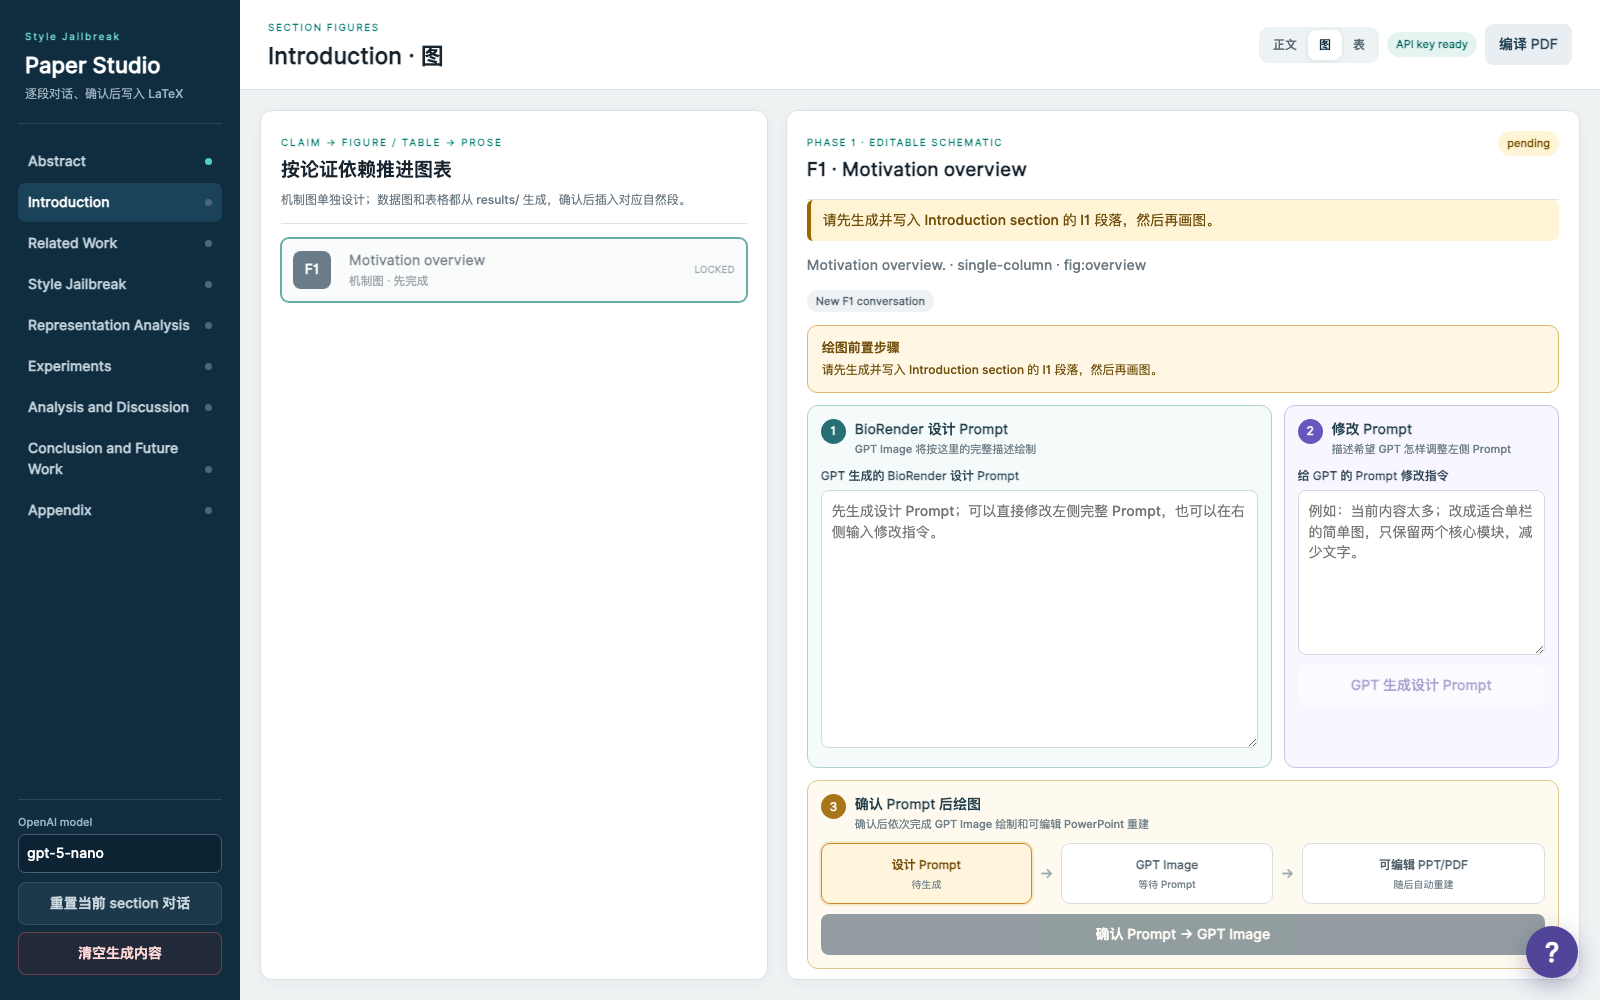
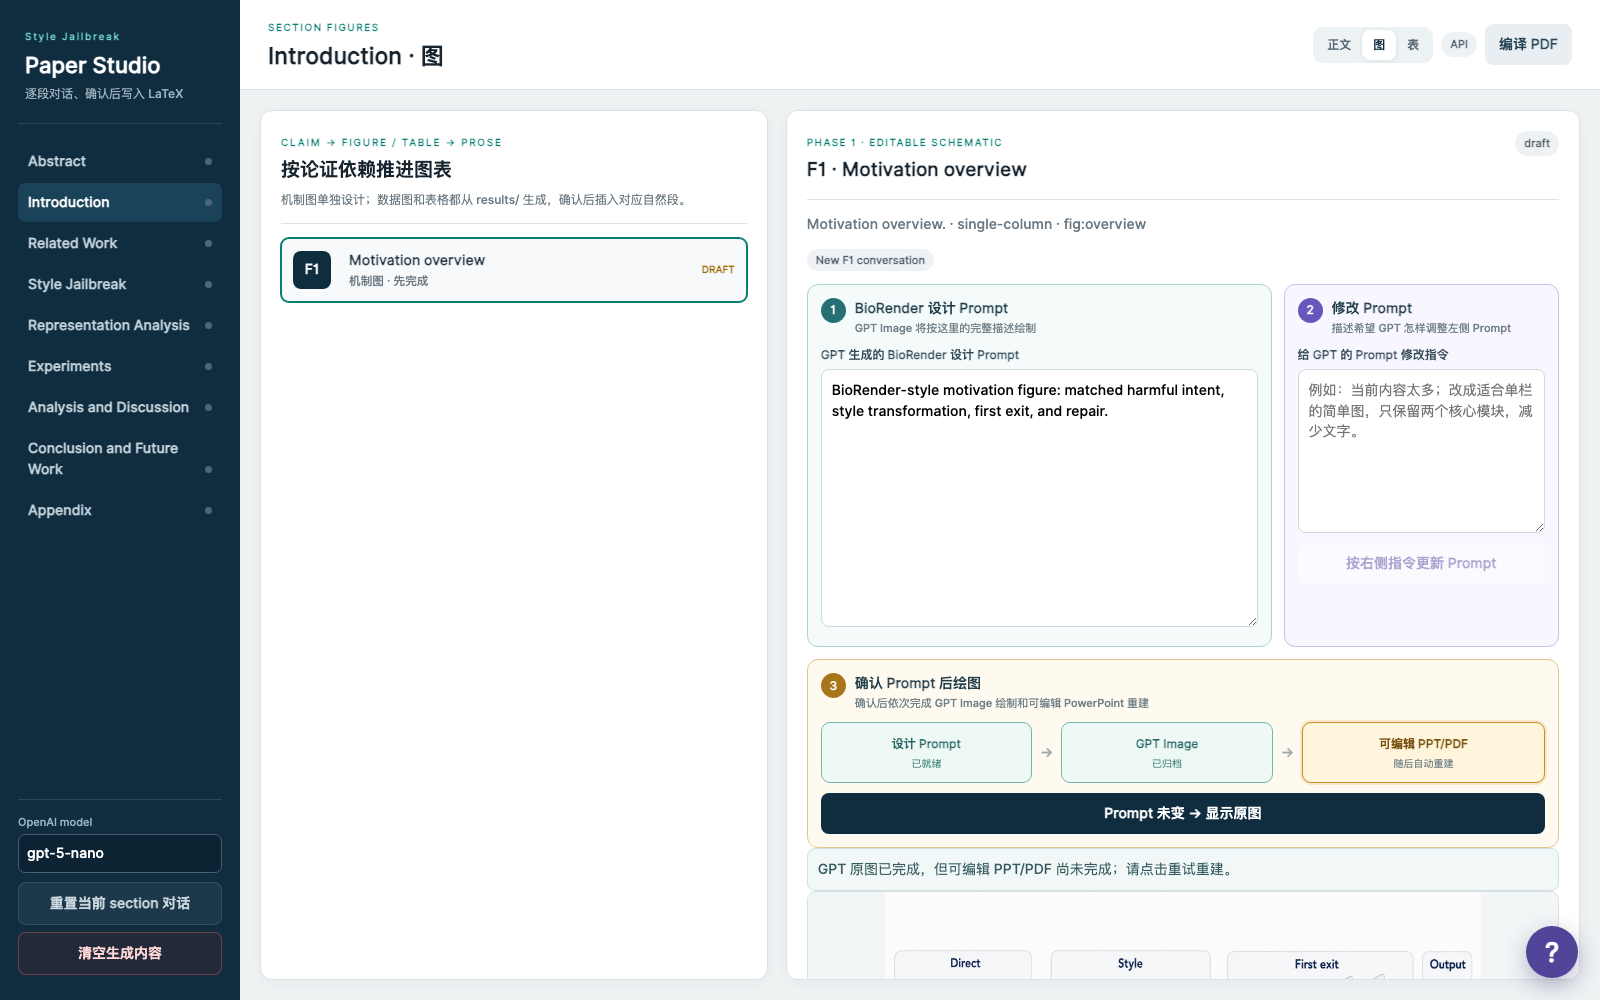
Show real paper artifacts in demo

diff --git a/demo/style.css b/demo/style.css
@@ -77,6 +77,7 @@ footer{display:flex;justify-content:space-between;padding:23px clamp(24px,6vw,90
 .part-decision{margin:0 0 10px;color:var(--muted);font-size:13px}.runplan-demo-note{max-width:850px;margin:8px 0 17px;color:#516a74;font-size:14px}.demo-current-goal{grid-column:2/-1;margin:10px 0 2px;padding:16px;border:2px solid var(--teal);border-radius:10px;background:#eef8f5}.demo-current-goal h5{margin:4px 0 10px;font:700 18px/1.25 var(--serif)}.demo-current-goal pre{max-height:180px;margin:0;padding:13px;border-radius:8px;background:#102e3b;color:#edf9f6;white-space:pre-wrap;overflow:auto;font:11px/1.55 ui-monospace,SFMono-Regular,Menlo,monospace}.demo-current-goal>button{margin-top:9px;padding:8px 12px;border:0;border-radius:7px;background:var(--teal);color:#fff;font-size:12px;font-weight:900}.demo-current-goal dl{display:grid;grid-template-columns:95px minmax(0,1fr);margin:13px 0 0}.demo-current-goal dt,.demo-current-goal dd{margin:0;padding:7px 8px;border-top:1px solid #c9ddd9;font-size:12px}.demo-current-goal dt{color:var(--teal);font-weight:900}.expanded-goal>strong small{display:block;margin-top:3px;color:#95620f;font:800 10px/1.3 var(--sans);letter-spacing:.06em}.expanded-goal>.completed-result{grid-column:2/-1;min-width:0}.demo-completed-goal{border-color:#cda954;background:#fffdf7}.future-result-example{margin-top:14px;padding:20px 16px;border:2px dashed #cda954;border-radius:12px;background:#fffcf4}.future-result-example>.artifact-kicker{color:#94600b!important}.simulated-run-summary{display:flex;flex-wrap:wrap;gap:7px;margin:10px 0 13px}.simulated-run-summary>*{padding:5px 9px;border:1px solid #c8dcd7;border-radius:999px;background:#fff;color:#4e6870;font-size:11px}.simulated-run-summary strong{border-color:#72b9ac;background:#e7f6f1;color:#087e6f}
 
 /* Paper Studio is shown only through screenshots captured from the real local application. */
-.paper-studio-screenshots{margin:28px 0}.paper-studio-screenshots>h4{margin:5px 0 7px;font:700 22px var(--serif)}.paper-studio-screenshots>p:not(.artifact-kicker){max-width:850px;color:var(--muted);font-size:14px}.paper-studio-screenshots figure{margin:22px 0 34px;border:1px solid #bdcecb;border-radius:12px;background:#fff;overflow:hidden;box-shadow:0 14px 38px #16354216}.paper-studio-screenshots img{display:block;width:100%;height:auto}.paper-studio-screenshots figcaption{display:grid;gap:3px;padding:13px 16px;border-top:1px solid var(--line)}.paper-studio-screenshots figcaption strong{font:700 17px var(--serif)}.paper-studio-screenshots figcaption span{color:var(--muted);font-size:13px}
+.paper-studio-screenshots{margin:28px 0}.paper-studio-screenshots>h4{margin:5px 0 7px;font:700 22px var(--serif)}.paper-studio-screenshots>p:not(.artifact-kicker){max-width:850px;color:var(--muted);font-size:14px}.paper-studio-screenshots figure{margin:22px 0 34px;border:1px solid #bdcecb;border-radius:12px;background:#fff;overflow:hidden;box-shadow:0 14px 38px #16354216}.paper-studio-screenshots img{display:block;width:100%;height:auto}.paper-studio-screenshots figcaption{display:grid;grid-template-columns:minmax(0,1fr) auto;gap:16px;align-items:center;padding:13px 16px;border-top:1px solid var(--line)}.paper-studio-screenshots figcaption>div{display:grid;gap:3px}.paper-studio-screenshots figcaption strong{font:700 17px var(--serif)}.paper-studio-screenshots figcaption span{color:var(--muted);font-size:13px}.writing-api-note{display:grid;gap:2px;min-width:230px;padding:10px 13px;border:1px solid #8bcac0;border-radius:9px;background:#edf9f6;text-align:right}.writing-api-note b{color:#087d72;font-size:13px}.writing-api-note span{color:#395f5b!important;font-size:11px!important}
+@media(max-width:680px){.paper-studio-screenshots figcaption{grid-template-columns:1fr}.writing-api-note{min-width:0;text-align:left}}
 @media(max-width:900px){.demo-current-goal{grid-column:2}}
 @media(max-width:600px){.demo-current-goal{grid-column:1/-1}.demo-current-goal dl{grid-template-columns:1fr}.demo-current-goal dd{padding-top:2px;border-top:0}}

diff --git a/demo/app.js b/demo/app.js
@@ -156,12 +156,12 @@ const resultProvenanceDemo = () => `
 const paperStudioScreenshots = () => `<section class="paper-studio-screenshots">
   <p class="artifact-kicker">REAL PAPER STUDIO SCREENSHOTS · CAPTURED FROM THE LOCAL APP</p>
   <h4>真实界面，不在 Demo 中重画</h4>
-  <p>以下三张图直接截取自仓库中的 Paper Studio：同一个固定应用根据当前视图显示正文、图片和表格工作台。</p>
+  <p>以下三张图直接截取自仓库中的 Paper Studio：同一个固定应用根据当前视图显示正文、图片和表格工作台；正文截图右侧展示真实编译后的 Live PDF。</p>
   ${[
-    ["writing.png", "正文写作", "逐段 candidate、修改意见、Accept → LaTeX 与右侧 Live PDF。"],
-    ["figures.png", "图片工作台", "按论证依赖选择图，编辑 BioRender Prompt，并进入 GPT Image → 可编辑 PPT/PDF 流程。"],
-    ["tables.png", "表格工作台", "调用本地 Agent、编辑 Table LaTeX、选择正文位置并更新 PDF。"],
-  ].map(([file, title, caption]) => `<figure><img src="assets/paper-studio/${file}" alt="Paper Studio ${title}真实截图" loading="lazy"><figcaption><strong>${title}</strong><span>${caption}</span></figcaption></figure>`).join("")}
+    ["writing.png", "正文写作", "逐段 candidate、修改意见、Accept → LaTeX 与右侧真实 Live PDF。", true],
+    ["figures.png", "图片工作台", "真实 GPT Image 已生成并显示；后续继续重建为可编辑 PPT/PDF。", false],
+    ["tables.png", "表格工作台", "真实 DEMO DATA 已通过 LaTeX 编译成表格预览，并保留可编辑源码与正文位置。", false],
+  ].map(([file, title, caption, isWriting]) => `<figure><img src="assets/paper-studio/${file}?v=20260814-real-artifacts" alt="Paper Studio ${title}真实截图" loading="lazy"><figcaption><div><strong>${title}</strong><span>${caption}</span></div>${isWriting ? `<aside class="writing-api-note"><b>正文由 LLM API 写作</b><span>不是 Code Agent 生成正文</span></aside>` : ""}</figcaption></figure>`).join("")}
 </section>`;
 
 let reportStructures = {};

diff --git a/demo/index.html b/demo/index.html
@@ -6,7 +6,7 @@
   <meta name="description" content="Research Avatar interactive product demo">
   <title>Research Avatar · Interactive Demo</title>
   <link rel="icon" href="data:,">
-  <link rel="stylesheet" href="style.css?v=20260814-simulated-goal">
+  <link rel="stylesheet" href="style.css?v=20260814-real-writing-pdf">
 </head>
 <body class="focused-demo">
   <main>
@@ -29,6 +29,6 @@
 
   </main>
 
-  <script src="app.js?v=20260814-simulated-goal"></script>
+  <script src="app.js?v=20260814-real-writing-pdf"></script>
 </body>
 </html>

diff --git a/tests/test_demo_sync.py b/tests/test_demo_sync.py
@@ -24,6 +24,12 @@ class DemoSyncTests(unittest.TestCase):
     def test_paper_demo_uses_three_real_application_screenshots(self):
         source = (ROOT / "demo/app.js").read_text(encoding="utf-8")
         self.assertNotIn("data-paper-demo-view", source)
+        self.assertIn("右侧真实 Live PDF", source)
+        self.assertIn("正文由 LLM API 写作", source)
+        self.assertIn("不是 Code Agent 生成正文", source)
+        self.assertIn("真实 GPT Image 已生成并显示", source)
+        self.assertIn("真实 DEMO DATA 已通过 LaTeX 编译", source)
+        self.assertIn("?v=20260814-real-artifacts", source)
         for filename in ("writing.png", "figures.png", "tables.png"):
             self.assertIn(filename, source)
             image = ROOT / "demo/assets/paper-studio" / filename
@@ -34,7 +40,7 @@ class DemoSyncTests(unittest.TestCase):
         source = (ROOT / "demo/app.js").read_text(encoding="utf-8")
         self.assertIn('document.execCommand("copy")', source)
         self.assertIn('representativeGoalIds = [currentId, "G2.1", "G5.1"]', source)
-        self.assertIn("完整计划没有丢失", source)
+        self.assertNotIn("完整计划没有丢失", source)
 
 
 if __name__ == "__main__":
